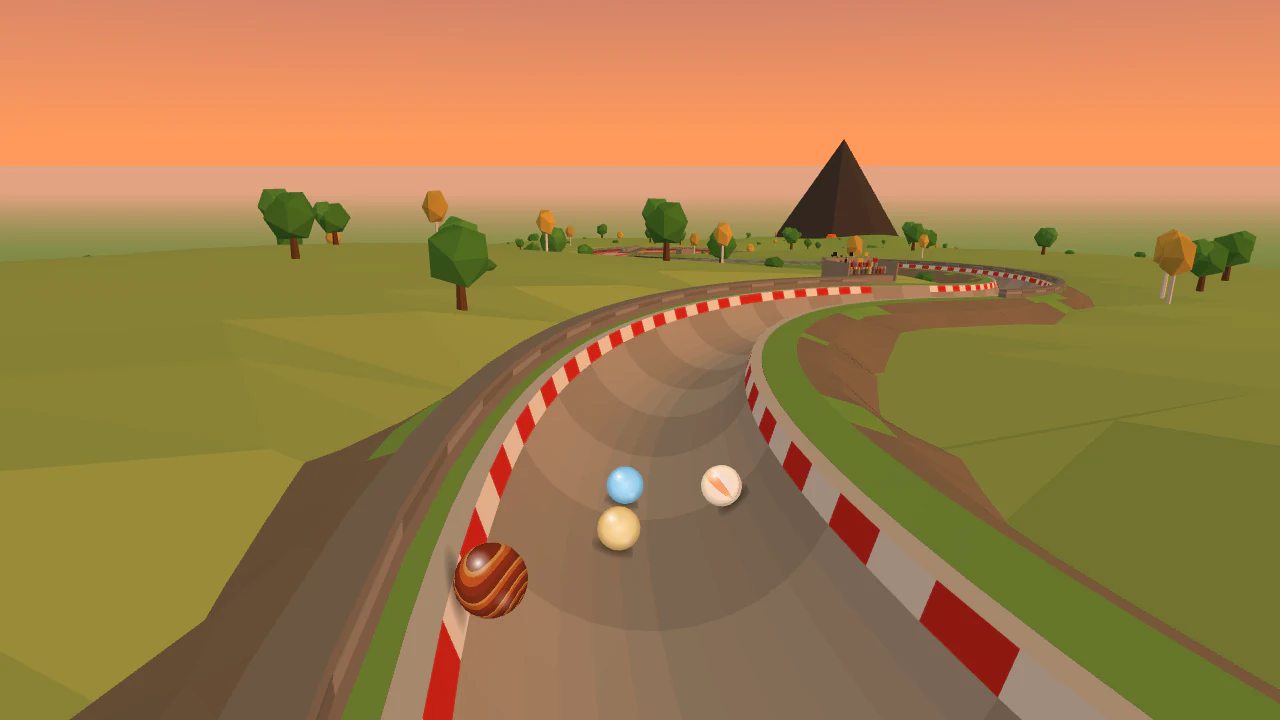
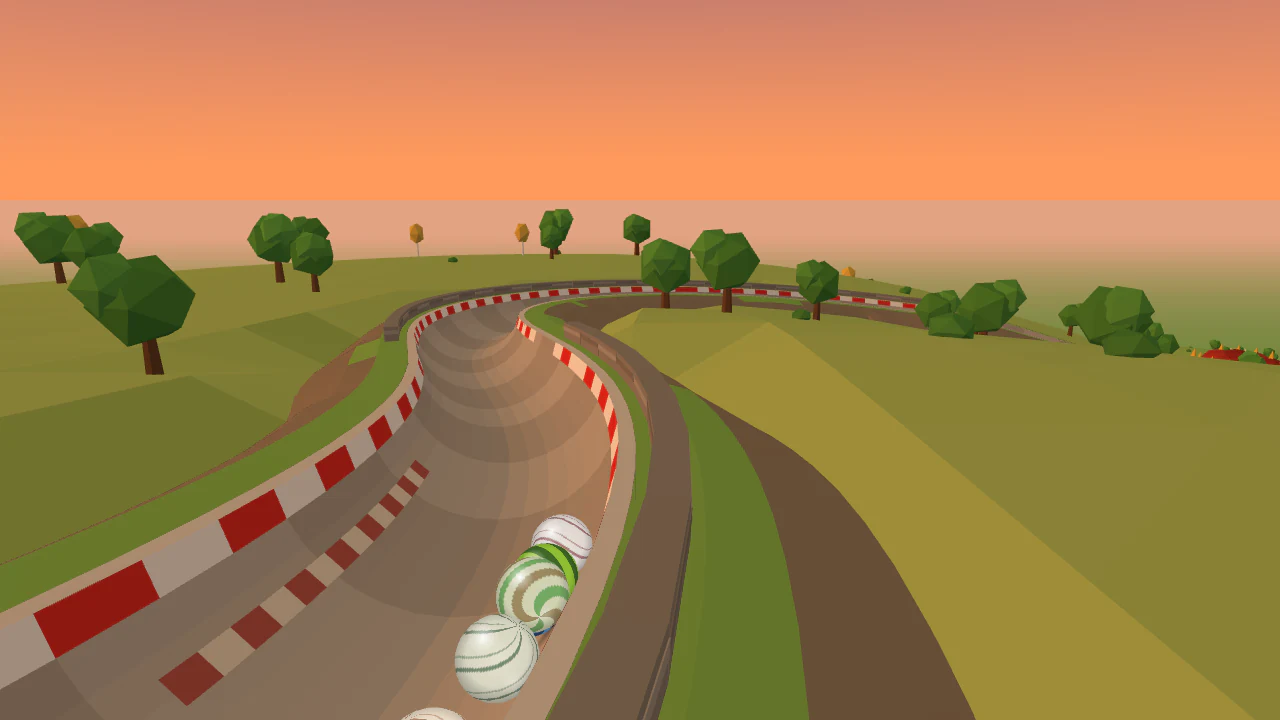
Wyrmwood Hollow Marble Grand Prix: its own layout; its records start again
Moses's order (7 Nov 2026, 08:26), the last of four: its own layout and opening, two signature
features from its own fantasy world, no jump. Until now Wyrmwood Hollow was the Grand Prix recipe of
10 Oct 2026 (Dubai's track). A clean-drop opening (the Rampart drop into the Ruins S-bends: its first
use on a Grand Prix track), the Arch drop (a broken pillar and a slalom of six: the luck, no
pile-up), the Dragon's coil (big feature one, the signature: a 160° banked turn round the sleeping
dragon; its TV camera near the end looking back), the Chasm bridge, the Run to the hairpin, the
Watchtower hairpin, the Wyrm's throat (big feature two: a drop through a tunnel of the old wood's
roots, the wyrm's burrow; a dragon's-mouth tunnel there put the follow camera 0.25 m from its jaw),
the Valley sweep, the Ember S-bends and the Amphitheatre run. Start shots a chase, then high behind;
the stalls gate. Spectator groups 650 m apart, no crowd on the Valley sweep: the drawing budget.

Full report: all 50 lines pass (winner 50.1 s, last 79.6 s, gap 15.7 s, 64 overtakes; layout closest
0.59, first 20 seconds closest 0.71; computer flyover 144k triangles). Website TV camera test passes.
Data update 2027-06-09-wyrmwood-hollow-marble-grand-prix-new-layout.sql (--relayout: its records
start again). Off the sameness test's known failures. Docs: 06, README. Server suite 626 pass;
website 1810 pass.

Claude-Session: https://claude.ai/code/session_011vSSkqNPL9kncfzrwF15wS

diff --git a/src/tracks/wyrmwood-hollow-marble-grand-prix.js b/src/tracks/wyrmwood-hollow-marble-grand-prix.js
@@ -1,55 +1,82 @@
 'use strict';
 
-const { track, plunge, straight, sBends, sweep, spiral, hairpin, splitter, runIn, pileUp, swipe, curtain, slalom, boost, rumble } = require('../trackKit');
+// Wyrmwood Hollow Marble Grand Prix, its own layout (Moses, 7 Nov 2026: four more Grand Prix tracks re-laid the same
+// way as Lagos, Istanbul and Sydney; Wyrmwood last, its two features from its own fantasy world). Until then it was
+// the Grand Prix recipe of 10 Oct 2026 (the same track as Dubai). Now the field drops clean off the ruined castle's
+// rampart into the Ruins S-bends, down the Arch drop through a slalom of broken pillars, banks round the sleeping
+// dragon on the Dragon's coil (big feature one, the signature), crosses the chasm on the old stone bridge, rounds the
+// Watchtower hairpin, dives down the Wyrm's throat (big feature two: a drop through a tunnel of the old wood's roots, where the wyrm burrowed), sweeps
+// along the valley, threads the Ember S-bends and runs to the ruined amphitheatre. Its records started again with the
+// new layout (tracks.records_since).
+const {
+  track, opening, straight, plunge, sBends, sweep, hairpin, runIn, peg, slalom, swipe, rumble, curtain,
+} = require('../trackKit');
 
 module.exports = track({
   slug: 'wyrmwood-hollow-marble-grand-prix',
   name: 'Wyrmwood Hollow Marble Grand Prix',
   difficulty: 'extreme',
-  description: 'Our own valley of ancient ruins where an old dragon sleeps: from a ruined castle wall through crumbling arches, over a chasm on an old stone bridge and past the sleeping dragon to a ruined amphitheatre.',
+  description: 'Our own valley of ancient ruins where an old dragon sleeps: a clean drop off a ruined castle wall, a banked coil round the sleeping dragon, over a chasm on an old stone bridge, down the wyrm\'s burrow through the roots of the old wood and along the valley to a ruined amphitheatre.',
   surface: 'stone',
   biome: 'meadow',
   lighting: 'sunset',
   variants: ['fog', 'day'],
-  grandPrix: { crowd: 'villagers', barrier: 'stone' },
-  signature: 'Dragon hairpin',
+  grandPrix: { crowd: 'villagers', barrier: 'stone', groupsEvery: 650 }, // (the small groups of spectators further apart than usual: the flyover's drawing budget)
+  signature: 'Dragon\'s coil',
   tvCameras: [
-    { section: 'Dragon hairpin', at: 0.4, side: 'right', distance: 10, height: 12 },
-    { section: 'Statue splitter', at: 0.8, side: 'left', distance: 10, height: 8 },
+    // (Near the end of the coil, looking back round it at the field banking past the sleeping dragon.)
+    { section: 'Dragon\'s coil', at: 0.85, side: 'right', distance: 8, height: 10 },
   ],
   billboardFrame: 'banner',
-  start: { landmark: 'ruined-castle', shots: { countdown: 'chase', launch: 'high-behind' } },
+  start: { landmark: 'ruined-castle', gate: 'stalls', shots: { countdown: 'chase', launch: 'high-behind' } },
   finish: { landmark: 'amphitheatre' },
   designChanges: [
-    'The slalom of broken pillars is at the foot of the Rampart plunge, straight after the fallen stone blocks, rather than in the Ruins S-bends: on the bends it left too few overtakes and the field reached the splitter sorted so that one channel never gave its marbles a fair share of wins (measured on Dubai Marble Grand Prix, the same layout).',
-    'The splitter round the fallen statue comes straight after the Ruins S-bends, before the Valley sweep, rather than after the Dragon hairpin: out of the hairpin the whole field rides one side of the channel and the splitter cannot share it out fairly (measured on Dubai Marble Grand Prix).',
-    'The Chasm bridge is the 50 m straight before the Dragon hairpin, its braking zone, rather than a stretch of its own after the Ruins S-bends: the recipe needs a braking zone before the one sharp bend, and a longer straight after the splitter left too few overtakes (measured on Istanbul Marble Grand Prix).',
-    'The rumble strips and the hanging battle banners are on a straight, "Amphitheatre run", between the spiral and the finish rather than on the spiral and the run-in: the recipe keeps bumps off bends and the last 25 m before the line clear.',
+    'A new layout (7 Nov 2026): until then Wyrmwood Hollow was physically the Grand Prix recipe of 10 Oct 2026 (the same track as Dubai Marble Grand Prix). Its old signature, the Dragon hairpin, goes; so do the Statue splitter, the spiral and the boost pad on the Valley sweep.',
+    'Two features from its own world: the Dragon\'s coil (big feature one, the signature: a 160° banked turn round the sleeping dragon) and the Wyrm\'s throat (big feature two: a drop through a tunnel of the old wood\'s roots, the wyrm\'s burrow; drawn first as a dragon\'s-mouth tunnel, but the follow camera passed 0.25 m from its jaw where the Valley sweep turns away at its mouth). The Chasm bridge stays, now with two broken pillars on it. No jump: the three jump tracks are used.',
+    'The opening a clean drop off the rampart (its first use on a Grand Prix track), so its luck comes later, on the Arch drop: a broken pillar and a slalom of six, no pile-up. With a pile-up there (on a 50 m straight, then on a drop), the marbles it stopped crawled round the coil: 25 s from first to last (18 allowed) and 40 overtakes (60 needed). The coil 160°, not 220°, and steeper (0.16) for the same reason.',
+    'The Valley sweep 170° with a pillar and a short slalom, the Amphitheatre run 85 m and two pillars on the bridge: without them the winner took 47 s (target 48–55 s) and the races had 56 overtakes. The Arch drop at 0.3, not 0.4: steeper, the marbles hopped 1.24 m in 1 race in 100 (about 1 m allowed).',
+    'Spectator groups every 650 m and no crowd on the Valley sweep: with them, a computer drew 152k triangles in the flyover\'s first frame (150k allowed).',
+    'A pillar before the Arch drop\'s slalom: without it the first 20 seconds were too like Volga Port Burst\'s (0.86). Each bend\'s direction chosen out of the 32 ways they could turn so that no stretch runs close under another (the nearest, the start under the finish, 32 m aside).',
   ],
+  opening: opening('clean-drop', {
+    side: 'right',
+    names: { plunge: 'Rampart drop', bends: 'Ruins S-bends' },
+  }),
   sections: [
     {
-      name: 'Rampart plunge', shape: plunge(80, { grade: 0.6 }),
-      obstacles: [pileUp({ costume: 'stone-block', at: 0.42 }), slalom({ costume: 'broken-pillar', from: 0.55, to: 0.97, count: 6, loss: 0.3 })],
+      name: 'Arch drop', shape: plunge(55, { grade: 0.3, from: 0.2 }),
+      obstacles: [peg({ costume: 'broken-pillar', at: 0.12, line: 'center' }), slalom({ costume: 'broken-pillar', from: 0.3, to: 0.95, count: 6, loss: 0.3 })],
     },
-    { name: 'Ruins S-bends', shape: sBends({ first: 'left', radius: 75, degrees: 80, grade: 0.13 }), billboards: 2, scenery: ['crowd'] },
     {
-      name: 'Statue splitter', shape: splitter({ side: 'left', balance: { tipOffset: -0.8, left: { drag: 1.32, scrub: 1.32 }, right: { drag: 0.42, scrub: 0.72 } } }),
-      around: 'fallen-statue',
-    },
-    { name: 'Valley sweep', shape: sweep({ side: 'right', radius: 80, degrees: 160, grade: 0.07 }), features: [boost({ at: 0.08 })], billboards: 4, scenery: ['crowd'] },
-    { name: 'Chasm bridge', shape: straight(50, { grade: 0.12 }), bridge: 'stone' },
-    {
-      name: 'Dragon hairpin', shape: hairpin({ side: 'left' }), obstacles: [swipe({ costume: 'dragon-tail', side: 'high' })],
+      name: 'Dragon\'s coil', shape: sweep({ side: 'right', radius: 60, degrees: 160, grade: 0.16 }),
       landmarks: [{ name: 'sleeping-dragon', at: 0.5, side: 'right', distance: 26 }],
     },
     {
-      name: 'Spiral', shape: spiral({ side: 'right', radius: 45, grade: 0.17 }),
+      name: 'Chasm bridge', shape: straight(50, { grade: 0.12 }), bridge: 'stone',
+      obstacles: [peg({ costume: 'broken-pillar', at: 0.3, line: 'left' }), peg({ costume: 'broken-pillar', at: 0.6, line: 'right' })],
+    },
+    {
+      name: 'Run to the hairpin', shape: straight(50, { grade: 0.12 }), billboards: 1,
+      obstacles: [peg({ costume: 'broken-pillar', at: 0.3, line: 'right' })],
+    },
+    { name: 'Watchtower hairpin', shape: hairpin({ side: 'left' }), obstacles: [swipe({ costume: 'dragon-tail', side: 'high' })] },
+    {
+      name: 'Wyrm\'s throat', shape: plunge(45, { grade: 0.28, from: 0.16 }), tunnel: 'roots',
+      obstacles: [slalom({ costume: 'broken-pillar', from: 0.3, to: 0.9, count: 4, loss: 0.3 })],
+    },
+    {
+      name: 'Valley sweep', shape: sweep({ side: 'right', radius: 80, degrees: 170, grade: 0.1 }), billboards: 2,
+      obstacles: [peg({ costume: 'broken-pillar', at: 0.2, line: 'right' }), slalom({ costume: 'broken-pillar', from: 0.45, to: 0.8, count: 3, loss: 0.15 })],
       landmarks: [{ name: 'dragon-mountain', at: 0.5, side: 'left', distance: 260 }],
     },
     {
-      name: 'Amphitheatre run', shape: straight(80, { grade: 0.15 }),
-      obstacles: [curtain({ costume: 'battle-banners', at: 0.2, side: 'left' })],
-      features: [rumble({ from: 0.6, to: 0.95, count: 4 })], billboards: 2, scenery: ['grandstand'],
+      name: 'Ember S-bends', shape: sBends({ first: 'right', radius: 75, degrees: 85, grade: 0.16 }), billboards: 2,
+      obstacles: [peg({ costume: 'broken-pillar', at: 0.2, line: 'center' }), slalom({ costume: 'broken-pillar', from: 0.4, to: 0.75, count: 3, loss: 0.15 }), peg({ costume: 'broken-pillar', at: 0.9, line: 'left' })],
+    },
+    {
+      name: 'Amphitheatre run', shape: straight(85, { grade: 0.15 }), billboards: 2, scenery: ['grandstand'],
+      obstacles: [curtain({ costume: 'battle-banners', at: 0.2, side: 'left' }), peg({ costume: 'broken-pillar', at: 0.45, line: 'right' })],
+      features: [rumble({ from: 0.7, to: 0.95, count: 3 })],
     },
     { name: 'Finish', shape: runIn(), scenery: ['grandstand'] },
   ],

diff --git a/test/samenessAllTracks.test.js b/test/samenessAllTracks.test.js
@@ -43,11 +43,10 @@ const KNOWN = {
   'amazon-water-run': ['layout'],
   'rio-jungle-rumble': ['opening', 'opening-kind', 'layout'],
   'china-wall-twister': ['opening', 'opening-kind', 'layout'],
-  // Grand Prix (one design: Dubai's; Stockholm, Lagos, Istanbul, Sydney, Nairobi, Delhi and Sahara have their own since 6–7 Nov 2026).
+  // Grand Prix (one design: Dubai's; Stockholm, Lagos, Istanbul, Sydney, Nairobi, Delhi, Sahara and Wyrmwood Hollow have their own since 6–7 Nov 2026).
   'dubai-marble-grand-prix': ['opening', 'opening-kind', 'layout'],
   'elderglade-marble-grand-prix': ['opening-kind'], // (its opening and layout are its own since Sydney, Lagos and Stockholm got theirs, 7 Nov 2026)
   'frostmere-marble-grand-prix': ['opening', 'opening-kind', 'layout'],
-  'wyrmwood-hollow-marble-grand-prix': ['opening', 'opening-kind', 'layout'],
 };
 
 const tracks = PHYSICS_TRACKS.filter((t) => profile(t) && profile(t).family !== 'test');

diff --git a/docs/README.md b/docs/README.md
@@ -9,7 +9,7 @@
 **Where it stands:**
 - **Website:** live at marblespins.com (Vercel builds every push to `Main`; redeployed by Moses on 1 Nov after the Blocks Series 2 switch-on). Soft start (social media, 10–20 invited test pilots) since the week of 26 Oct. **Official launch 1 Dec 2026**, with the Holiday Season, the season pass and the apps. Google Analytics 4 is on since 31 Oct (after cookie consent); the Meta Pixel is off.
 - **Tracks:** **143 live in ten series**: World Tour, Grand Prix, Coasters, Canyons, Blocks, Track and Field, Rivers (16), Peaks (15), Pinball and Arcade. The 31 holiday tracks are switched on but hidden and closed until 1 Dec 00:00 Swedish time (174 then). **Blocks Series 2: all 20 live** (two big features each): the test five since 31 Oct; the other fifteen (four cities, three rivers, four mountains, four winter tracks) switched on by Moses on 1 Nov after the server deploy. **Saint-Tropez** (World Tour) and **Pudong Marble Grand Prix** (Grand Prix), the first two tracks with the kit's loop, switched on by Moses on 4 Nov 2026 by hand in Railway's query box, after the server deploy; the website redeployed the same morning.
-- **Server:** deployed by Moses on 7 Nov 2026 from Main (code fingerprint `22aa52923453`, `1ed7e9e`): the own layouts of Lagos, Istanbul and Sydney Marble Grand Prix (data updates `2027-06-02-…` to `2027-06-04-…-new-layout.sql`; their records started again). Before that, 6 Nov (`533b9d0d08de`, `645de71`; 487 columns): the records reset on a new layout (`tracks.records_since`) and Stockholm's own layout. Before that, 4 Nov (`d7928db64307`, `ae7dc20`; 177 tracks in the database): Pudong Marble Grand Prix (data update `2027-05-31-add-pudong-marble-grand-prix.sql`). Before that, 3 Nov (`a096af4ab19a`, 176 tracks): the loop engine (physics for the track kit's `loop` piece) and Saint-Tropez (`2027-05-30-add-saint-tropez.sql`). Before that, 2 Nov (`fb4654c0885e`, last server change `6e23a24`; 486 columns): the back office Dashboard, staff accounts (`users.is_staff`), the first-visit steps (`first_steps`), guests made with what they tapped, the hourly IP clean-up, the Security tab loaded on its own and audited (`security-view`), and the first country in the Players list. **Waiting for the next server deploy:** the race readiness report's new fields for the apps (build, beeps, GO gap, failed loads; `src/readiness`: no table or column change), and Lagos Marble Grand Prix's second TV camera taken out (data update `2027-06-05-lagos-marble-grand-prix-tv-camera.sql`; looks only, its records stay), Nairobi Marble Grand Prix's own layout (the Expressway loop and the Acacia splitter; data update `2027-06-06-nairobi-marble-grand-prix-new-layout.sql`; its records start again), Delhi Red Fort Marble Grand Prix's own layout (the Lahori Gate tunnel launch and the Qutub Minar spiral; data update `2027-06-07-delhi-red-fort-marble-grand-prix-new-layout.sql`; its records start again), and Sahara Marble Grand Prix's own layout (the Dune wave and the Oasis splitter; data update `2027-06-08-sahara-marble-grand-prix-new-layout.sql`; its records start again). **Waiting for the next app build (1.0.0 (3)):** the app's countdown and hit-sound fixes (website sound unchanged).
+- **Server:** deployed by Moses on 7 Nov 2026 from Main (code fingerprint `22aa52923453`, `1ed7e9e`): the own layouts of Lagos, Istanbul and Sydney Marble Grand Prix (data updates `2027-06-02-…` to `2027-06-04-…-new-layout.sql`; their records started again). Before that, 6 Nov (`533b9d0d08de`, `645de71`; 487 columns): the records reset on a new layout (`tracks.records_since`) and Stockholm's own layout. Before that, 4 Nov (`d7928db64307`, `ae7dc20`; 177 tracks in the database): Pudong Marble Grand Prix (data update `2027-05-31-add-pudong-marble-grand-prix.sql`). Before that, 3 Nov (`a096af4ab19a`, 176 tracks): the loop engine (physics for the track kit's `loop` piece) and Saint-Tropez (`2027-05-30-add-saint-tropez.sql`). Before that, 2 Nov (`fb4654c0885e`, last server change `6e23a24`; 486 columns): the back office Dashboard, staff accounts (`users.is_staff`), the first-visit steps (`first_steps`), guests made with what they tapped, the hourly IP clean-up, the Security tab loaded on its own and audited (`security-view`), and the first country in the Players list. **Waiting for the next server deploy:** the race readiness report's new fields for the apps (build, beeps, GO gap, failed loads; `src/readiness`: no table or column change), and Lagos Marble Grand Prix's second TV camera taken out (data update `2027-06-05-lagos-marble-grand-prix-tv-camera.sql`; looks only, its records stay), Nairobi Marble Grand Prix's own layout (the Expressway loop and the Acacia splitter; data update `2027-06-06-nairobi-marble-grand-prix-new-layout.sql`; its records start again), Delhi Red Fort Marble Grand Prix's own layout (the Lahori Gate tunnel launch and the Qutub Minar spiral; data update `2027-06-07-delhi-red-fort-marble-grand-prix-new-layout.sql`; its records start again), Sahara Marble Grand Prix's own layout (the Dune wave and the Oasis splitter; data update `2027-06-08-sahara-marble-grand-prix-new-layout.sql`; its records start again), and Wyrmwood Hollow Marble Grand Prix's own layout (the Dragon's coil and the Wyrm's throat; data update `2027-06-09-wyrmwood-hollow-marble-grand-prix-new-layout.sql`; its records start again). **Waiting for the next app build (1.0.0 (3)):** the app's countdown and hit-sound fixes (website sound unchanged).
 - **Apps:** iPhone and Android (Capacitor) are built; the Android app is tested on Moses's phone. They need a rebuild for the keep-awake fix and the new sounds. Store submission is planned for 16–20 Nov.
 - **Email: on since 1 Nov 2026** (Brevo; `BREVO_API_KEY` and `EMAIL_FROM` on Railway, a password-reset email arrived in Moses's inbox; sender no-reply@marblespins.com since 4 Nov 2026, marblespins.com re-authenticated in Brevo that day, support replies with support@ as reply-to): password resets, "Confirm your email" for new sign-ups, support replies and contact-form notifications. The pass reminders are not sent yet.
 - **Payments:**

diff --git a/docs/06-decisions.md b/docs/06-decisions.md
@@ -4,6 +4,7 @@
 
 | Date | Decision | Why |
 |---|---|---|
+| 2026-11-07 | **Wyrmwood Hollow Marble Grand Prix's new layout built** (technical, on Moses's order of 7 Nov 08:26, the last of four; its features from its own fantasy world). A clean-drop opening (the Rampart drop into the Ruins S-bends: its first use on a Grand Prix track), the Arch drop (a broken pillar and a slalom of six: the luck), the Dragon's coil (big feature one, the signature: a 160° banked turn round the sleeping dragon; its TV camera near its end looking back), the Chasm bridge (the old stone bridge, two pillars on it), the Watchtower hairpin, the Wyrm's throat (big feature two: a drop through a tunnel of the old wood's roots, the wyrm's burrow; a dragon's-mouth tunnel there put the follow camera 0.25 m from its jaw), the Valley sweep (170°), the Ember S-bends and the Amphitheatre run. Start shots a chase, then high behind; the stalls gate. Data update `2027-06-09-wyrmwood-hollow-marble-grand-prix-new-layout.sql` (`--relayout`: its records start again). | With a pile-up after the clean drop, the marbles it stopped crawled round a 220° coil: 25 s from first to last and 40 overtakes; without the pile-up, the coil at 160° and steeper, a longer sweep and finish straight and a few more pillars, the races are close again (64 overtakes) and the winner takes 50 s. |
 | 2026-11-07 | **Sahara Marble Grand Prix's new layout built** (technical, on Moses's order of 7 Nov 08:26, the third of four). A staggered-drop opening (the field let go from the kasbah in five waves, like a caravan setting out; its first bend to the right, Zermatt's turns left), the Erg S-bends, the Salt flat straight, the Dune wave (big feature one, the signature: a half-pipe of four 15° swings; its TV camera near its end looking back), the Caravan sweep, the Oasis splitter (big feature two, the proven Grand Prix splitter round the oasis), the Canyon run, the Erg Chebbi hairpin, a drop down the dune and the Mosque straight. No spiral. Start shots a chase, then from overhead; the trapdoor gate. Data update `2027-06-08-sahara-marble-grand-prix-new-layout.sql` (`--relayout`: its records start again). | With two swings and no drop the winner took 46 s (target 48–55 s); four swings and the drop bring it to 50 s. Without a spiral no stretch runs within 30 m beside another above it (where Nairobi's follow camera went into the bank). |
 | 2026-11-07 | **Delhi Red Fort Marble Grand Prix's new layout built** (technical, on Moses's order of 7 Nov 08:26, the second of four). A tunnel-launch opening (the Rampart drop diving through the Lahori Gate, in the fort's walls: big feature one; its first bend to the right, Pudong's turns left), the Chandni Chowk S-bends (a slalom, then two cones: a cone and then the slalom made the first 20 seconds too like Pudong's), the Qutub Minar spiral (big feature two, the signature: a turn and a half down round a new landmark, the Qutub Minar, looks only; its TV camera at the foot looking back up), the Jama Masjid sweep, the Lutyens bank (160°), the Connaught hairpin, the drop to Raj Ghat, the Lodhi S-bends and Kartavya Path to India Gate. Start shots from above, then a low chase; the paddle gate. Data update `2027-06-07-delhi-red-fort-marble-grand-prix-new-layout.sql` (`--relayout`: its records start again). | The first drawing was 41 s (target 48–55 s), so the sweep and the Lodhi S-bends went in; then the Jama Masjid sweep ran 7 m aside of the Chandni Chowk S-bends, 77 m below (where Nairobi's follow camera went into the bank), so every bend's direction was chosen out of the 64 combinations for the most room under the track above, among those passing the sameness and opening checks. |
 | 2026-11-07 | **Nairobi Marble Grand Prix's new layout built** (technical, on Moses's order of 7 Nov 08:26: four more Grand Prix tracks re-laid like Lagos, Istanbul and Sydney, Nairobi first; each its own layout and opening, two signature features from the real place, no jump). A banked-turn opening to the right (the KICC drop and the City bank: the latest re-layouts opened with a split start, a crest, a pipe drop and a funnel drop), the Uhuru S-bends (a slalom, then a cone: the other way round the first 20 seconds were too like Accra December Beats'), the Expressway loop (the signature: a loop on the elevated Nairobi Expressway, its TV camera just past it), the Run to Westlands and the Westlands hairpin (turning left: turning right, the Mbagathi S-bends ran under the loop's straight and the follow camera went inside the bank between them), the Mbagathi S-bends, the Acacia splitter (a channel either side of a flat-topped acacia, giraffes and zebras beyond; shorter than the Grand Prix one, a 60 m run-in, 100° and a 30 m merge, with its inside channel rougher, 2.1, its outside one smoother, 0.3, and the tip 0.3 m over), the Plains spiral (40 m) and the Plains straight along the park fence. Start shots from the front, then looking back. Data update `2027-06-06-nairobi-marble-grand-prix-new-layout.sql` (`--relayout`: its records start again). | With the full-length Grand Prix splitter the winner took 56 s (target 48–55 s): the straights were not what made it slow (steeper or shorter straights changed little), the 300 m splitter was. Shorter, its inside channel was the quicker way round, hence the rougher inside. The Uhuru S-bends at 75°: at 65° the weakest marbles reached the loop's launch pad more often than the strongest. |
